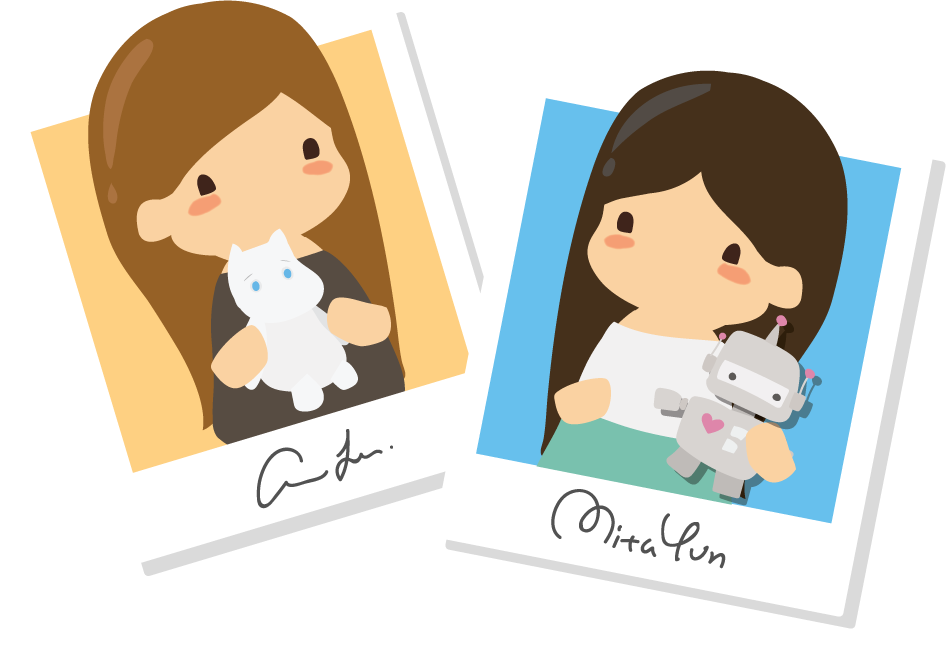
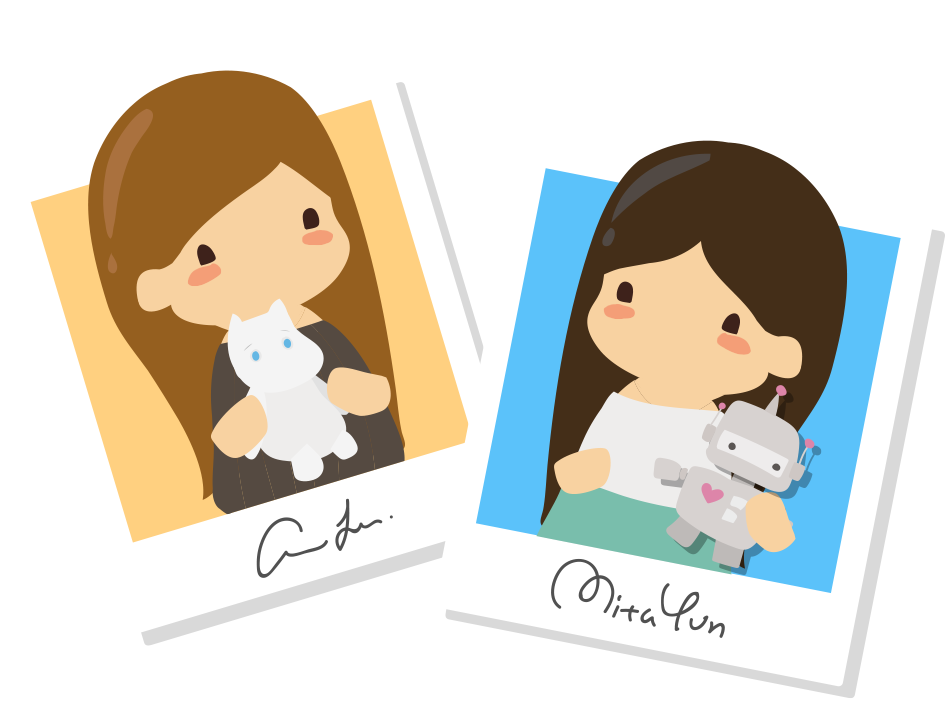
fix about page

Changed region(s): [[0.0307, 0.0, 1.0, 0.9907], [0.8899, 0.8359, 0.9206, 0.8978]]

diff --git a/assets/main.css b/assets/main.css
@@ -716,19 +716,45 @@ body {
 }
 
 .about_container {
+  width: 100%;
+  max-width: 900px;
+  display: block;
+  margin:0 auto;
+  padding-left: 20px;
+  padding-right: 20px;
+  text-align: center;
+  box-sizing: border-box;
+  -moz-box-sizing: border-box;
+  -webkit-box-sizing: border-box;
+  -ms-box-sizing: border-box;
+}
+
+.about_pic {
+  width: 80%;
+}
+
+.about_text {
+  color: #636263;
+  text-align: left;
+  margin-bottom: 30px;
+  padding-left: 20px;
+  padding-right: 20px;
+  box-sizing: border-box;
+  -moz-box-sizing: border-box;
+  -webkit-box-sizing: border-box;
+  -ms-box-sizing: border-box;
+}
+/*
+.about_container {
     width: 100%;
     max-width: 900px;
     height: 340px;
     display: block;
     margin: 0 auto;
     box-sizing: border-box;
-    /** add this **/
     -moz-box-sizing: border-box;
-    /** add this **/
     -webkit-box-sizing: border-box;
-    /** add this **/
     -ms-box-sizing: border-box;
-    /** add this **/
     margin-bottom: 50px;
 }
 
@@ -741,13 +767,9 @@ body {
     background-size: contain;
     padding: 10px;
     box-sizing: border-box;
-    /** add this **/
     -moz-box-sizing: border-box;
-    /** add this **/
     -webkit-box-sizing: border-box;
-    /** add this **/
     -ms-box-sizing: border-box;
-    /** add this **/
     background-position: center;
 }
 
@@ -759,19 +781,17 @@ body {
     padding: 10px;
     color: #636263;
     box-sizing: border-box;
-    /** add this **/
     -moz-box-sizing: border-box;
-    /** add this **/
     -webkit-box-sizing: border-box;
-    /** add this **/
     -ms-box-sizing: border-box;
-    /** add this **/
 }
+*/
 
 .characters_container {
   margin-bottom: 0px;
 }
 @media screen and (max-width: 800px) {
+  /*
     .about_pic {
         width: 100%;
         float: none;
@@ -784,7 +804,7 @@ body {
         height: 100%;
         margin-bottom: 80px;
     }
-    .footer {}
+    */
 
     .characters_container {
       margin-bottom: 70px;

diff --git a/_layouts/about.html b/_layouts/about.html
@@ -11,8 +11,11 @@
 
     {% include header.html %}
     <div class="about_container">
+      <img class="about_pic" src="{{base}}/assets/annmita.png" />
+      <!--
         <div class="about_pic">
         </div>
+      -->
 
         <div class="about_text">
             <div class="about_title">

diff --git a/assets/800.css b/assets/800.css
@@ -233,6 +233,7 @@
     min-width: 400px;
 }
 
+
 .home_logo_header_bar {
   opacity: 0;
 }
@@ -240,6 +241,7 @@
 .home_social_container_small {
   opacity: 0;
 }
+
 .social_img_small {
     width: 30px;
     height: 30px;
